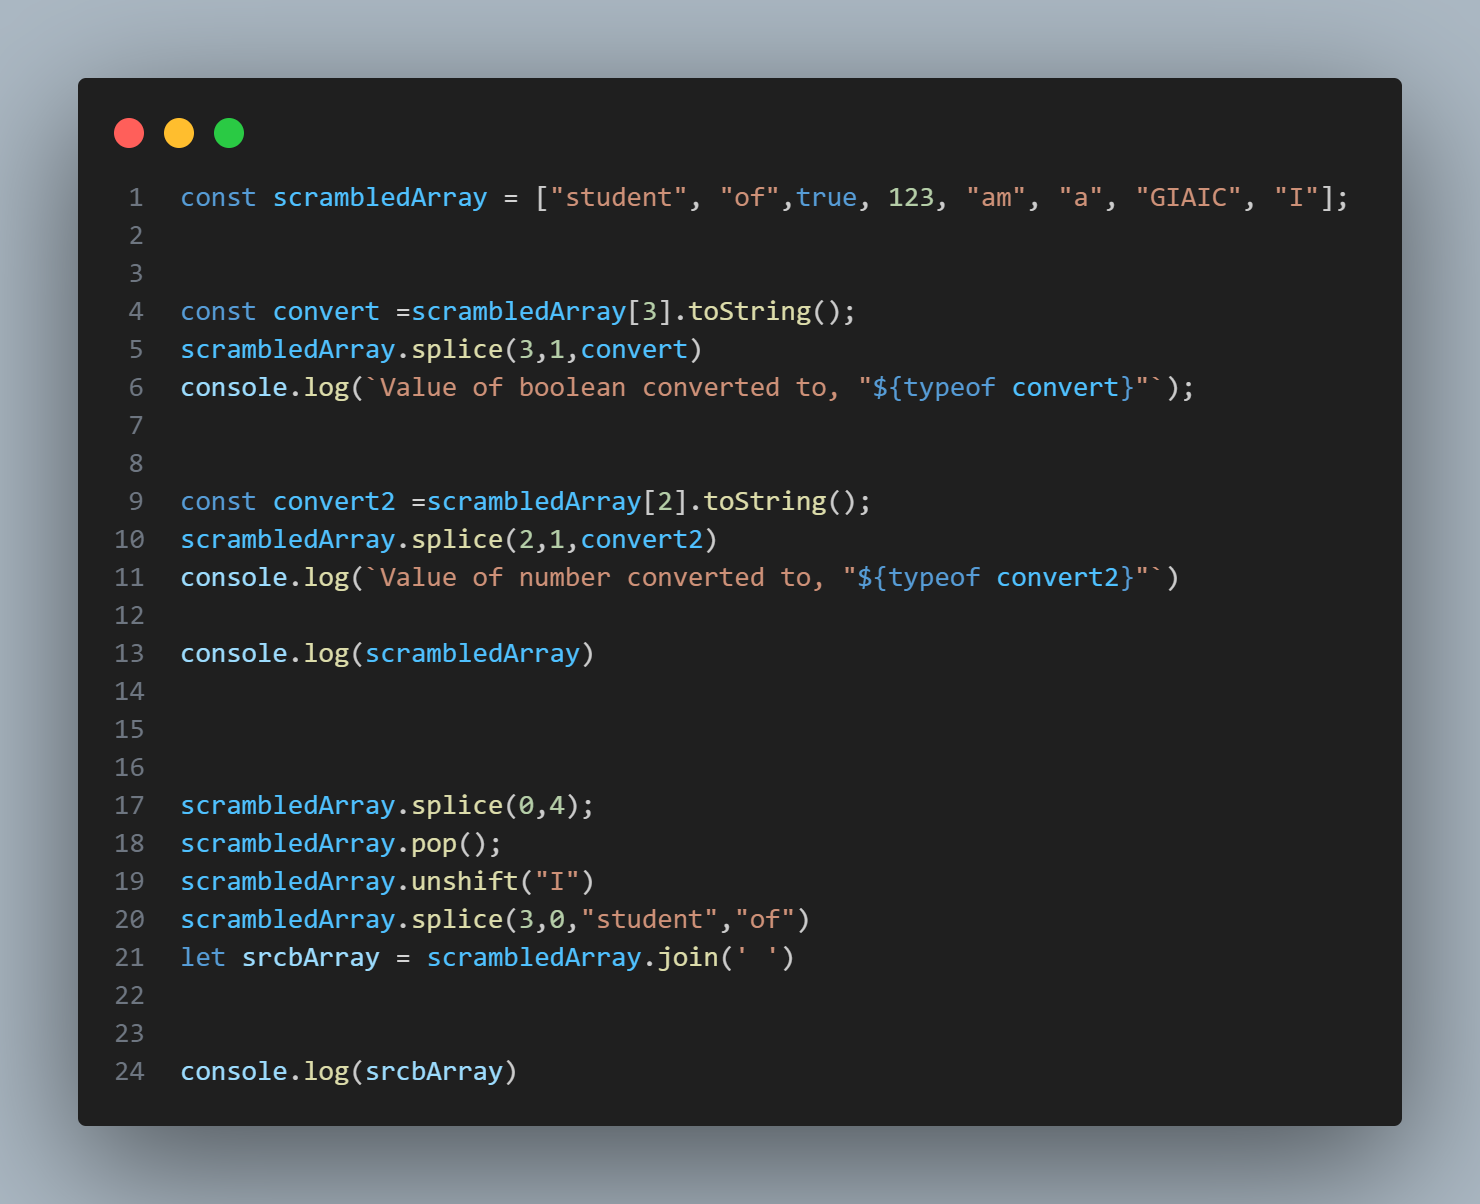
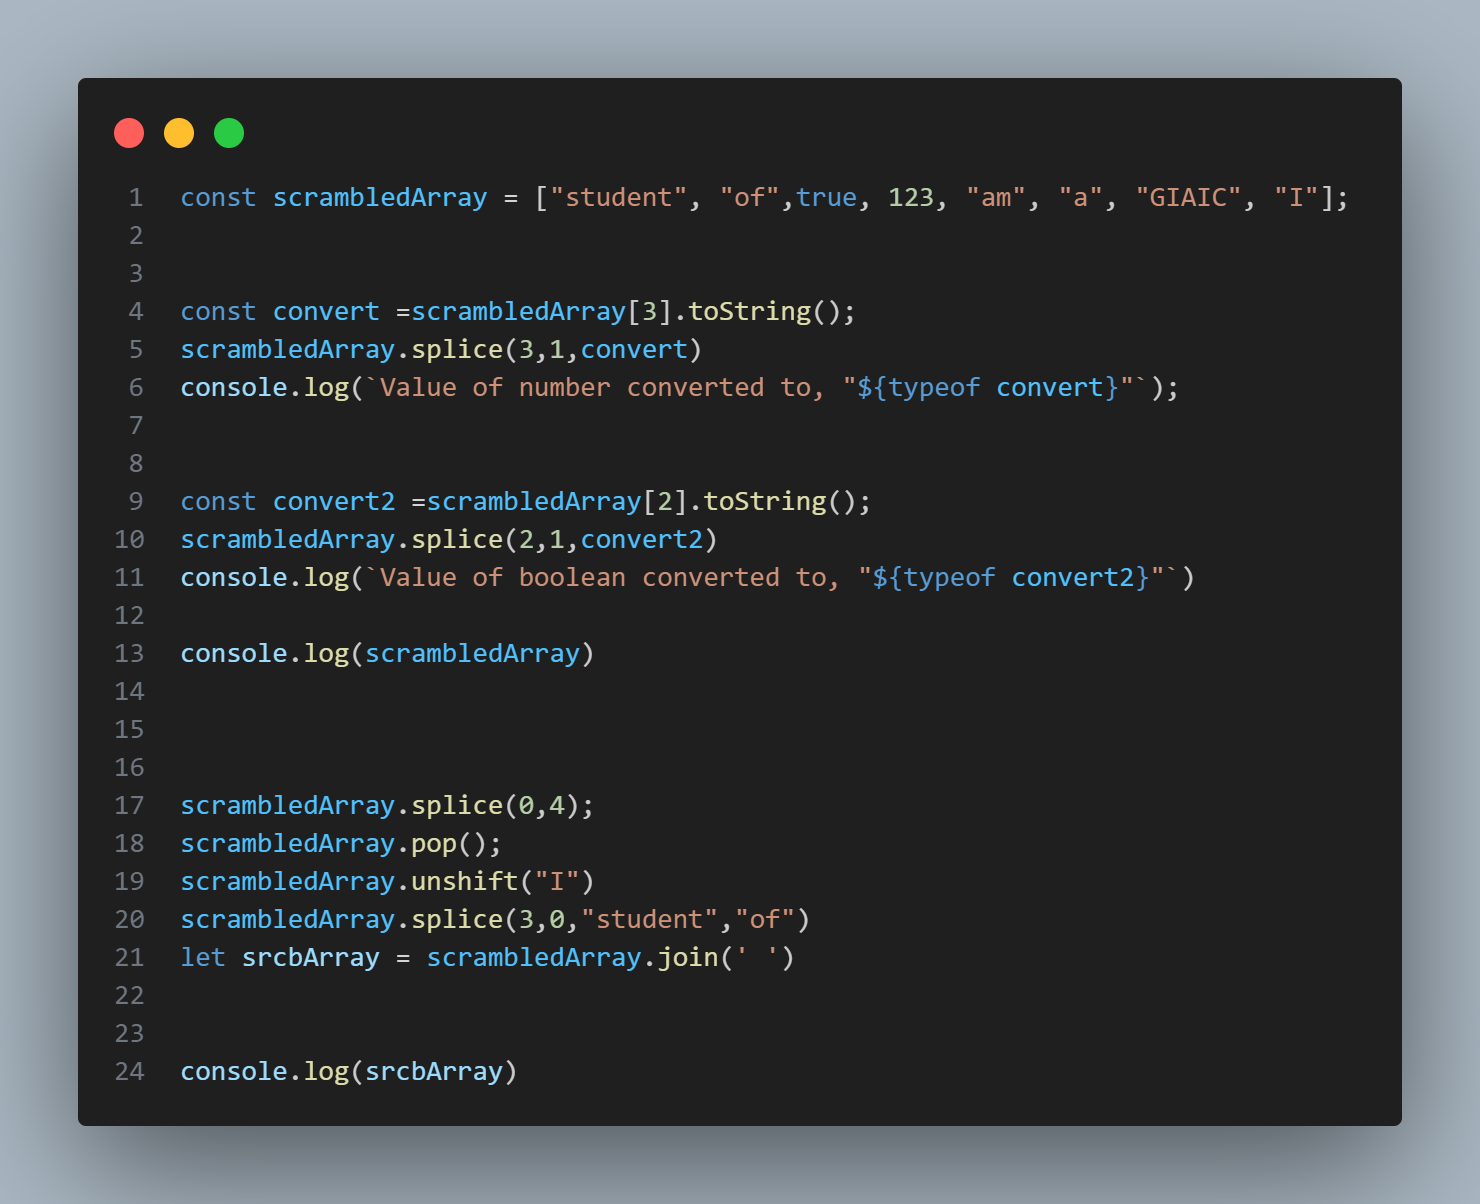
Update Question2

Changed region(s): [[0.3419, 0.461, 0.8081, 0.4917], [0.3419, 0.3073, 0.8081, 0.338]]

diff --git a/Assignments/Assignment-Object-Array-&-Function-06/Question-02/app.ts b/Assignments/Assignment-Object-Array-&-Function-06/Question-02/app.ts
@@ -3,12 +3,12 @@ const scrambledArray = ["student", "of",true, 123, "am", "a", "GIAIC", "I"];
 
 const convert =scrambledArray[3].toString();
 scrambledArray.splice(3,1,convert)
-console.log(`Value of boolean converted to, "${typeof convert}"`);
+console.log(`Value of number converted to, "${typeof convert}"`);
 
 
 const convert2 =scrambledArray[2].toString();
 scrambledArray.splice(2,1,convert2)
-console.log(`Value of number converted to, "${typeof convert2}"`)
+console.log(`Value of boolean converted to, "${typeof convert2}"`)
 
 console.log(scrambledArray)
 

diff --git a/Assignments/Assignment-Object-Array-&-Function-06/Question-02/app.js b/Assignments/Assignment-Object-Array-&-Function-06/Question-02/app.js
@@ -1,6 +1,6 @@
 var scrambledArray = ["student", "of", true, 123, "am", "a", "GIAIC", "I"];
-//o Convert non-strings (booleans, numbers) to strings if needed.
 var convert = scrambledArray[3].toString();
+console.log(convert);
 scrambledArray.splice(3, 1, convert);
 console.log("Value of boolean converted to, \"".concat(typeof convert, "\""));
 var convert2 = scrambledArray[2].toString();
